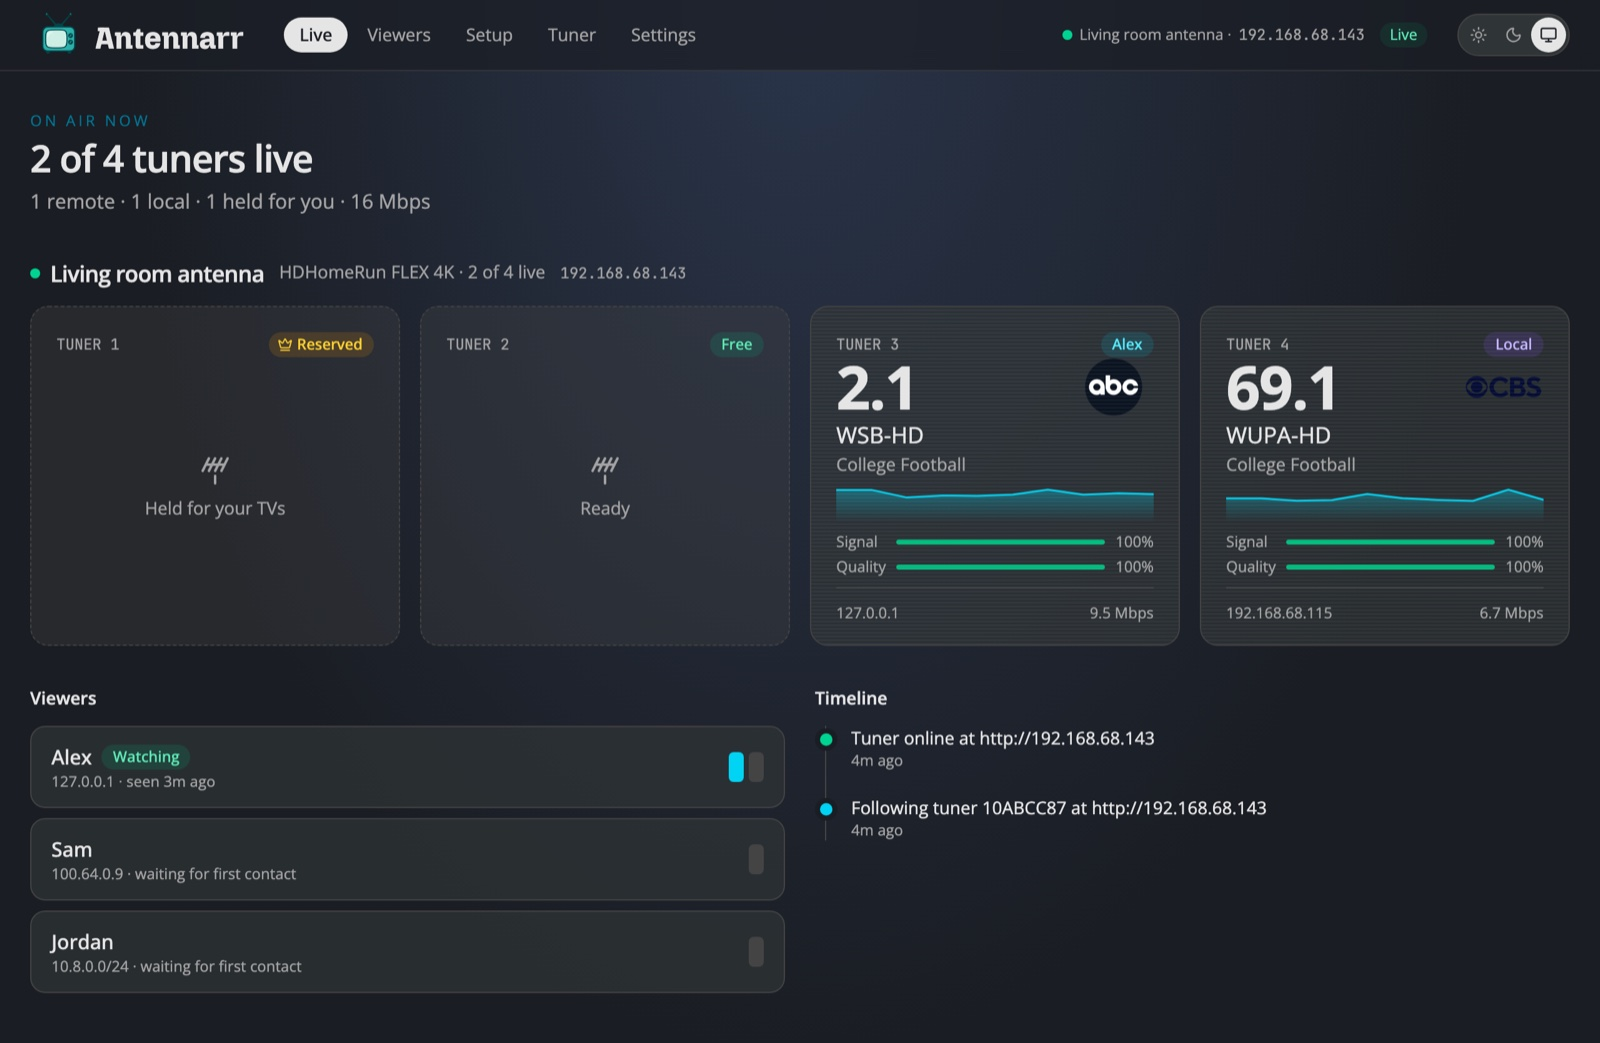
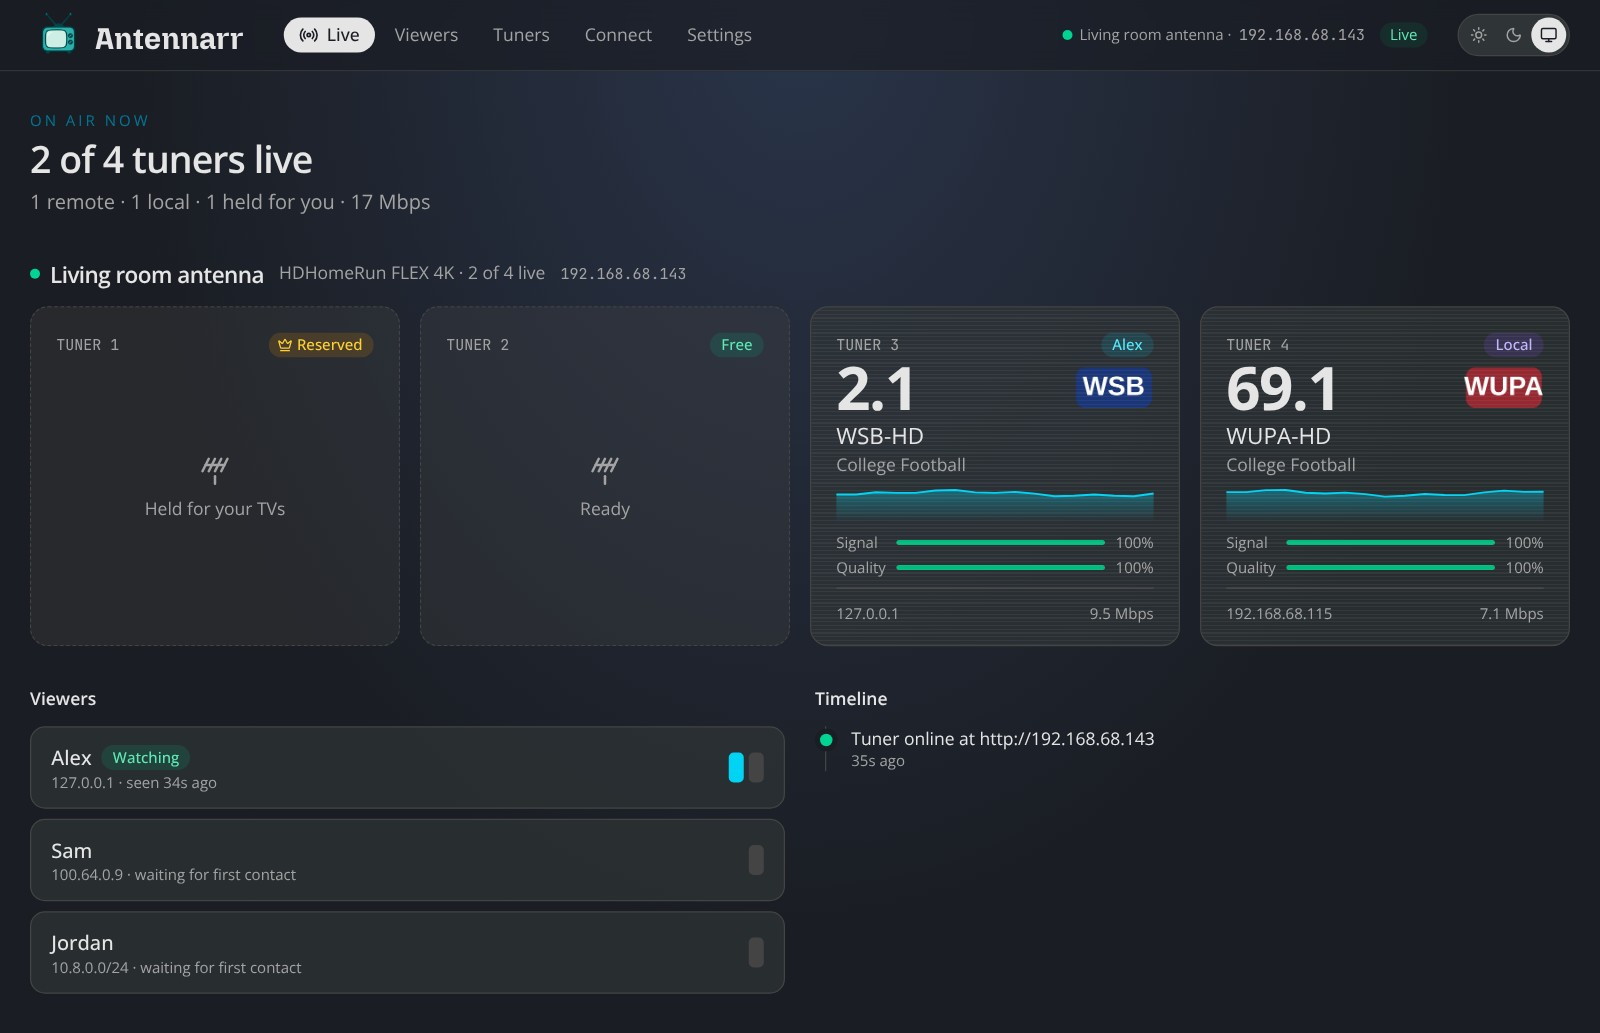
Add a script to retake the README screenshots, and retake them
The demo harness serves the UI against a fake tuner, guide and viewers so
the images contain nothing real.

Claude-Session: https://claude.ai/code/session_01TZf6Nv7ouXW3hKGraYwjCF

diff --git a/internal/server/demo_test.go b/internal/server/demo_test.go
@@ -1,0 +1,168 @@
+//go:build demo
+
+package server
+
+import (
+	"context"
+	"fmt"
+	"io"
+	"log/slog"
+	"math"
+	"net"
+	"net/http"
+	"net/http/httptest"
+	"os"
+	"os/signal"
+	"path/filepath"
+	"strings"
+	"sync"
+	"testing"
+	"time"
+
+	"github.com/johnschult/antennarr/internal/access"
+)
+
+// TestDemo runs Antennarr against a made-up tuner and guide until interrupted,
+// for taking the README screenshots (docs/screenshots/retake.sh). Not part of
+// the normal tests: it only builds with -tags demo.
+//
+// The tuner is an HDHomeRun FLEX 4K with one stream from a viewer (Alex)
+// through Antennarr and one local device, plus three made-up viewers. The
+// channel logos are plain badges, not any network's marks. The address it
+// listens on is written to $DEMO_DIR/addr.
+// wobble varies a bit rate over time, as a real broadcast does.
+func wobble(rate float64, phase float64) int {
+	t := float64(time.Now().UnixNano()) / 1e9
+	return int(rate * (1 + 0.09*math.Sin(t/2.3+phase) + 0.05*math.Sin(t*1.7+phase*3)))
+}
+
+func TestDemo(t *testing.T) {
+	dir := os.Getenv("DEMO_DIR")
+	if dir == "" {
+		dir = t.TempDir()
+	}
+	logos := os.Getenv("DEMO_LOGOS")
+	if logos == "" {
+		logos = "../../docs/screenshots/demo"
+	}
+	var mu sync.Mutex
+	remote := false // Alex is watching 2.1 through Antennarr
+
+	stream := httptest.NewServer(http.HandlerFunc(func(w http.ResponseWriter, r *http.Request) {
+		mu.Lock()
+		remote = true
+		mu.Unlock()
+		defer func() { mu.Lock(); remote = false; mu.Unlock() }()
+		w.WriteHeader(200)
+		w.(http.Flusher).Flush()
+		for {
+			select {
+			case <-r.Context().Done():
+				return
+			case <-time.After(20 * time.Millisecond):
+				w.Write([]byte("TS"))
+				w.(http.Flusher).Flush()
+			}
+		}
+	}))
+	defer stream.Close()
+	_, sport, _ := net.SplitHostPort(strings.TrimPrefix(stream.URL, "http://"))
+
+	api := httptest.NewServer(http.HandlerFunc(func(w http.ResponseWriter, r *http.Request) {
+		switch r.URL.Path {
+		case "/discover.json":
+			fmt.Fprint(w, `{"DeviceAuth":"DEMO-AUTH","FriendlyName":"HDHomeRun FLEX 4K","ModelNumber":"HDFX-4K","FirmwareName":"hdhomerun_dvr_atsc3","FirmwareVersion":"20260326","DeviceID":"10ABCC87","TunerCount":4,"BaseURL":"http://x","LineupURL":"http://x/lineup.json"}`)
+		case "/lineup.json":
+			fmt.Fprintf(w, `[{"GuideNumber":"2.1","GuideName":"WSB-HD","URL":"http://127.0.0.1:%s/auto/v2.1"},{"GuideNumber":"69.1","GuideName":"WUPA-HD","URL":"http://127.0.0.1:%s/auto/v69.1"}]`, sport, sport)
+		case "/status.json":
+			mu.Lock()
+			rm := remote
+			mu.Unlock()
+			t2 := `{"Resource":"tuner2"}`
+			if rm {
+				t2 = fmt.Sprintf(`{"Resource":"tuner2","VctNumber":"2.1","VctName":"WSB-HD","Frequency":599000000,"SignalStrengthPercent":100,"SignalQualityPercent":100,"SymbolQualityPercent":100,"NetworkRate":%d,"TargetIP":"127.0.0.1"}`, wobble(9500000, 0))
+			}
+			fmt.Fprintf(w, `[{"Resource":"tuner0"},{"Resource":"tuner1"},%s,{"Resource":"tuner3","VctNumber":"69.1","VctName":"WUPA-HD","Frequency":527000000,"SignalStrengthPercent":100,"SignalQualityPercent":100,"SymbolQualityPercent":100,"NetworkRate":%d,"TargetIP":"192.168.68.115"}]`, t2, wobble(6700000, 1.7))
+		default:
+			http.NotFound(w, r)
+		}
+	}))
+	defer api.Close()
+
+	now := time.Now().UTC().Truncate(time.Minute)
+	stamp := func(d time.Duration) string { return now.Add(d).Format("20060102150405") + " +0000" }
+	var base string
+	guide := httptest.NewServer(http.HandlerFunc(func(w http.ResponseWriter, r *http.Request) {
+		switch {
+		case r.URL.Path == "/api/xmltv":
+			xml := `<?xml version="1.0" encoding="utf-8"?><tv>
+<channel id="a"><display-name>WSB-HD</display-name><lcn>2.1</lcn><icon src="https://img.hdhomerun.com/channels/wsb.png"/></channel>
+<channel id="b"><display-name>WUPA-HD</display-name><lcn>69.1</lcn><icon src="https://img.hdhomerun.com/channels/wupa.png"/></channel>
+<programme start="` + stamp(-40*time.Minute) + `" stop="` + stamp(80*time.Minute) + `" channel="a"><title>College Football</title></programme>
+<programme start="` + stamp(-40*time.Minute) + `" stop="` + stamp(80*time.Minute) + `" channel="b"><title>College Football</title></programme>
+</tv>`
+			io.WriteString(w, strings.ReplaceAll(xml, "https://img.hdhomerun.com", base))
+		case strings.HasPrefix(r.URL.Path, "/channels/"):
+			b, err := os.ReadFile(filepath.Join(logos, filepath.Base(r.URL.Path)))
+			if err != nil {
+				http.NotFound(w, r)
+				return
+			}
+			w.Header().Set("Content-Type", "image/png")
+			w.Write(b)
+		default:
+			http.NotFound(w, r)
+		}
+	}))
+	defer guide.Close()
+	base = guide.URL
+
+	// The usual port, so the pages show the address people will really use;
+	// any free one if it is taken.
+	ln, err := net.Listen("tcp", "127.0.0.1:5004")
+	if err != nil {
+		ln, err = net.Listen("tcp", "127.0.0.1:0")
+	}
+	if err != nil {
+		t.Fatal(err)
+	}
+	s := access.DefaultSettings()
+	s.OwnerReserve = 1
+	s.Admin = []string{"192.0.2.0/24"}
+	s.Viewers = []access.Viewer{
+		{Name: "Alex", Addresses: []string{"127.0.0.1"}, Limit: 2},
+		{Name: "Sam", Addresses: []string{"100.64.0.9"}, Limit: 1},
+		{Name: "Jordan", Addresses: []string{"10.8.0.0/24"}, Limit: 1},
+	}
+	s.Labels = map[string]string{"antenna": "Living room antenna"}
+	dev := access.Device{Name: "antenna", Listen: ln.Addr().String(), Tuner: "demo", ID: "10ABCC87", StreamPort: sport}
+	s.Devices = []access.Device{dev}
+	cfgPath := filepath.Join(dir, "antennarr.json")
+	if err := access.SaveSettings(cfgPath, s); err != nil {
+		t.Fatal(err)
+	}
+	ctx, cancel := signal.NotifyContext(context.Background(), os.Interrupt)
+	defer cancel()
+	srv, err := New(ctx, Config{
+		Settings: s, Devices: s.Devices, ConfigPath: cfgPath, Poll: time.Second, Log: slog.New(slog.NewTextHandler(os.Stderr, nil)),
+		Locate:    func(context.Context, string, string) (string, error) { return api.URL, nil },
+		Listeners: map[string]net.Listener{"antenna": ln}, GuideURL: guide.URL + "/api/xmltv", GuideIconBase: guide.URL,
+		AdminListen: "127.0.0.1:0",
+	})
+	if err != nil {
+		t.Fatal(err)
+	}
+	go srv.Run(ctx)
+	base2 := "http://" + ln.Addr().String()
+	os.WriteFile(filepath.Join(dir, "addr"), []byte(base2), 0o644)
+	// Alex watches 2.1 through Antennarr.
+	go func() {
+		time.Sleep(time.Second)
+		resp, err := http.Get(base2 + "/auto/v2.1")
+		if err != nil {
+			return
+		}
+		io.Copy(io.Discard, resp.Body)
+	}()
+	<-ctx.Done()
+}

diff --git a/docs/screenshots/shoot.py b/docs/screenshots/shoot.py
@@ -1,0 +1,90 @@
+#!/usr/bin/env python3
+"""Takes the README screenshots of a running demo (see retake.sh).
+
+usage: shoot.py <demo address, e.g. http://127.0.0.1:5004> <output dir>
+
+Needs Playwright for Python and a Chromium it can find
+(`pip install playwright && playwright install chromium`).
+"""
+import json
+import sys
+import time
+
+from playwright.sync_api import sync_playwright
+
+base, out = sys.argv[1].rstrip('/'), sys.argv[2]
+
+# The demo runs on this machine, so the page would show its own address and no
+# Tailscale one. Show what a real install looks like instead.
+NETWORK = {
+    'addresses': [
+        {'ip': '100.127.237.109', 'kind': 'tailscale', 'interface': 'tailscale0'},
+        {'ip': '192.168.68.72', 'kind': 'lan', 'interface': 'en0'},
+        {'ip': '192.168.68.55', 'kind': 'lan', 'interface': 'en1'},
+    ],
+    'firewall': {'tool': '', 'active': False},
+}
+SHOW_LAN_ADDRESS = """() => {
+  const re = /127\\.0\\.0\\.1:\\d+/
+  const w = document.createTreeWalker(document.body, NodeFilter.SHOW_TEXT)
+  let n
+  while ((n = w.nextNode())) if (re.test(n.nodeValue)) n.nodeValue = n.nodeValue.replace(re, '192.168.68.143')
+}"""
+
+
+def shot(page, name, **kw):
+    page.screenshot(path=f'{out}/{name}.jpg', type='jpeg', quality=90, **kw)
+
+
+with sync_playwright() as p:
+    browser = p.chromium.launch()
+
+    def context(scheme, width=1280, height=834, scale=1.25, phone=False):
+        return browser.new_context(viewport={'width': width, 'height': height}, device_scale_factor=scale,
+                                   color_scheme=scheme, is_mobile=phone, has_touch=phone)
+
+    def open_page(ctx, path, wait_for):
+        page = ctx.new_page()
+        page.route('**/antennarr/api/network', lambda r: r.fulfill(status=200, content_type='application/json', body=json.dumps(NETWORK)))
+        # The live feed never goes idle, so don't wait for the network to.
+        page.goto(base + path, wait_until='domcontentloaded')
+        page.wait_for_selector(wait_for, timeout=15000)
+        return page
+
+    for scheme in ('light', 'dark'):
+        ctx = context(scheme)
+        page = open_page(ctx, '/antennarr/', '[data-testid="tuner-tile"]')
+        time.sleep(14)  # let the sparklines gather some samples
+        page.evaluate(SHOW_LAN_ADDRESS)
+        time.sleep(0.3)
+        # Just short of the footer, which would otherwise show as a sliver.
+        shot(page, f'live-{scheme}', clip={'x': 0, 'y': 0, 'width': 1280, 'height': 826})
+        ctx.close()
+
+    ctx = context('dark')
+    page = open_page(ctx, '/antennarr/viewers', 'table')
+    page.evaluate(SHOW_LAN_ADDRESS)
+    time.sleep(0.3)
+    shot(page, 'viewers', clip={'x': 0, 'y': 0, 'width': 1280, 'height': 418})
+    ctx.close()
+
+    ctx = context('dark')
+    page = open_page(ctx, '/antennarr/setup', 'h1')
+    time.sleep(1)
+    page.evaluate(SHOW_LAN_ADDRESS)
+    time.sleep(0.3)
+    shot(page, 'setup', clip={'x': 0, 'y': 0, 'width': 1280, 'height': 640})
+    ctx.close()
+
+    ctx = context('dark', 390, 844, 2, phone=True)
+    page = open_page(ctx, '/antennarr/', '[data-testid="tuner-tile"]')
+    time.sleep(2)
+    page.evaluate(SHOW_LAN_ADDRESS)
+    time.sleep(0.3)
+    shot(page, 'phone-live')
+    page.get_by_role('button', name='Open menu').click()
+    time.sleep(0.5)
+    shot(page, 'phone-menu', clip={'x': 0, 'y': 0, 'width': 390, 'height': 560})
+    ctx.close()
+    browser.close()
+print('screenshots written to', out)

diff --git a/CONTRIBUTING.md b/CONTRIBUTING.md
@@ -70,3 +70,7 @@ Releases are numbered by calendar, `YYYY.MM.PATCH`, and are made by tagging `mai
 ## License
 
 By contributing you agree that your work is released under the [MIT License](LICENSE).
+
+## Retaking the README screenshots
+
+`docs/screenshots/retake.sh` regenerates every image in `docs/screenshots/`. It runs the demo harness (`internal/server/demo_test.go`, build tag `demo`), which serves the real UI against a fake HDHomeRun, a fake guide and made-up viewers, then drives Chromium with `shoot.py` (needs Python with Playwright). Nothing real appears in the images. Build the web UI first (`npm run build` in `web/`), then run the script from the repo root.
